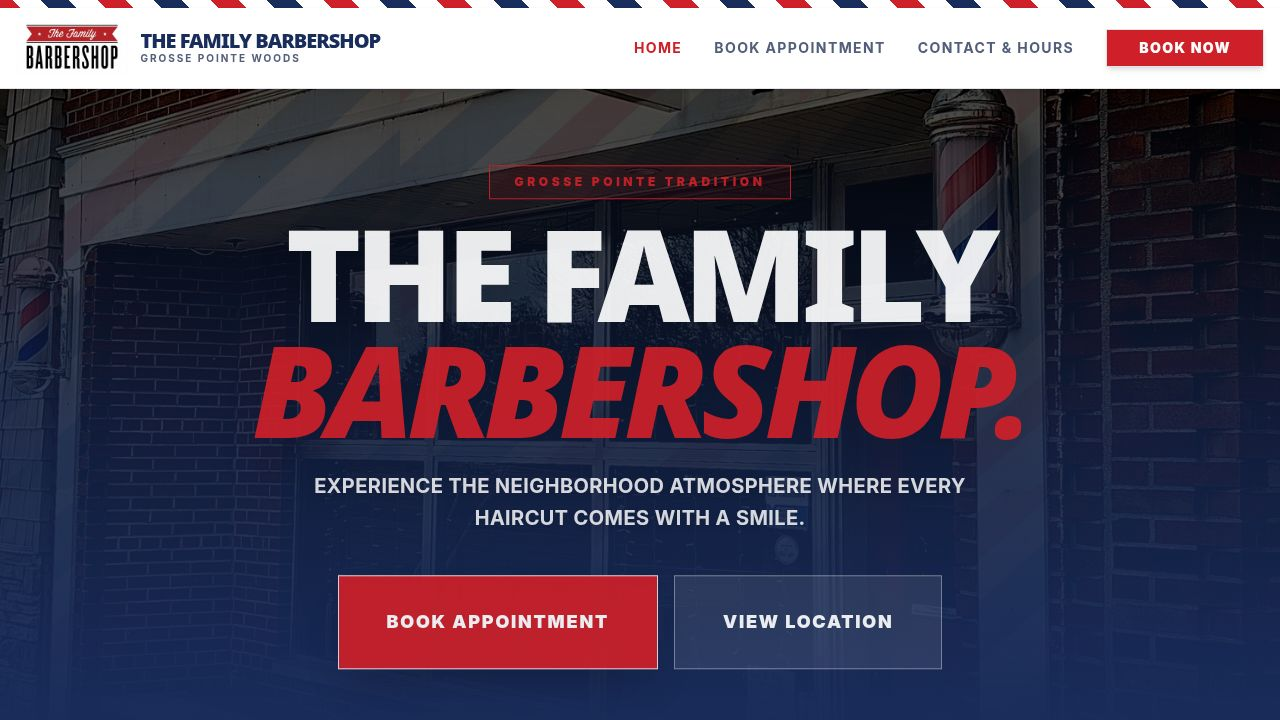
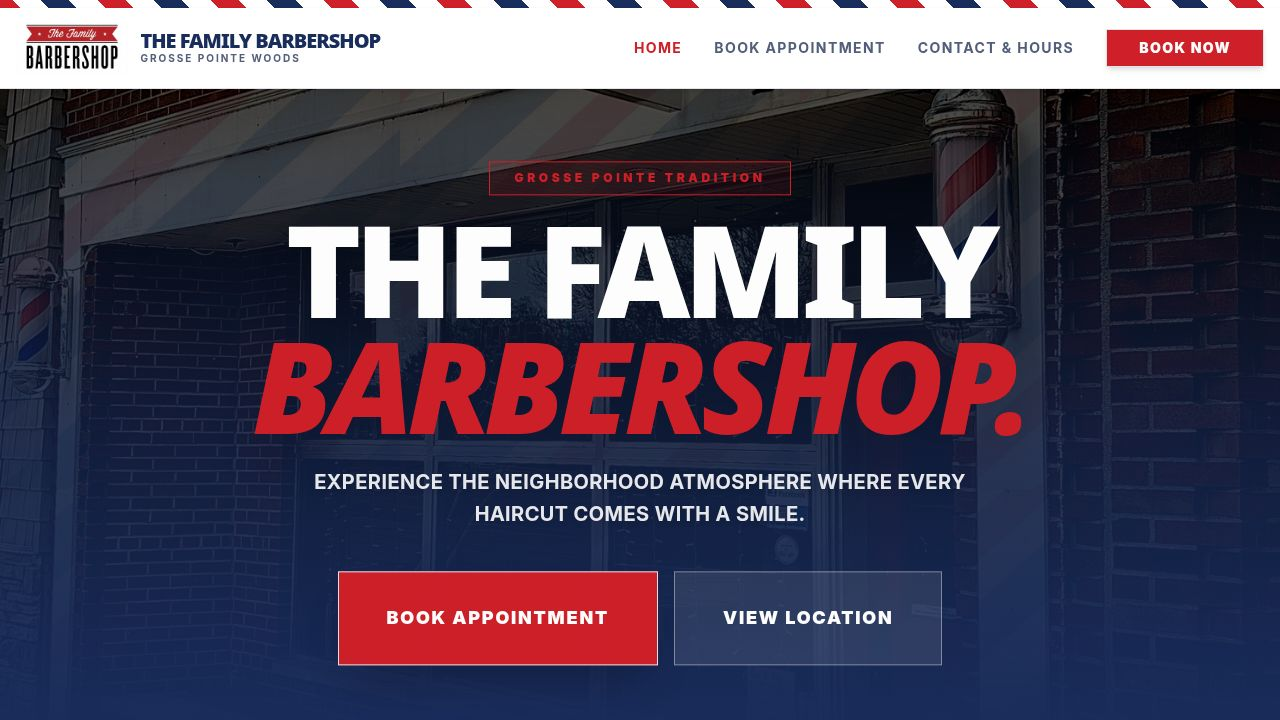
Add sections for customer reviews and testimonials to the homepage
Adds two new sections to the homepage: a Google Reviews section with a link to view reviews on Google and a placeholder for a live review widget, and a Testimonials section with sample quotes.

Replit-Commit-Author: Agent
Replit-Commit-Session-Id: 5889a5a5-295d-4200-9a05-4c6c044ff923
Replit-Commit-Checkpoint-Type: full_checkpoint
Replit-Commit-Event-Id: 4db1e73b-0845-4262-808d-7e00129c09f1
Replit-Commit-Screenshot-Url: https://storage.googleapis.com/screenshot-production-us-central1/023ea911-4c78-4d15-bad5-dc334f281290/5889a5a5-295d-4200-9a05-4c6c044ff923/uXLYHDJ
Replit-Helium-Checkpoint-Created: true

diff --git a/client/src/pages/home.tsx b/client/src/pages/home.tsx
@@ -141,6 +141,99 @@ export default function Home() {
         </div>
       </section>
 
+      {/* Google Reviews + Testimonials */}
+      <section className="py-32 bg-white relative overflow-hidden">
+        <div className="container mx-auto px-4">
+          <div className="text-center max-w-3xl mx-auto mb-20">
+            <h2 className="text-5xl md:text-7xl font-display font-black text-secondary mb-6 uppercase tracking-tighter">Reviews</h2>
+            <div className="h-2 w-32 bg-primary mx-auto mb-8" />
+            <p className="text-xs uppercase font-black tracking-[0.3em] text-muted-foreground">What customers are saying about The Family Barbershop.</p>
+          </div>
+
+          <div className="grid lg:grid-cols-2 gap-10 items-stretch max-w-6xl mx-auto">
+            <Card className="border-none shadow-2xl rounded-none overflow-hidden flex flex-col">
+              <div className="h-2 bg-barber-pole w-full" />
+              <CardContent className="p-10 flex flex-col gap-6 flex-grow">
+                <div className="flex items-start justify-between gap-6">
+                  <div>
+                    <h3 className="font-display font-black text-3xl text-secondary uppercase tracking-tighter">Google Reviews</h3>
+                    <p className="text-muted-foreground uppercase font-bold text-[10px] tracking-widest mt-2">
+                      Live reviews widget (needs your widget embed)
+                    </p>
+                  </div>
+                  <div className="text-right">
+                    <div className="text-primary font-black text-4xl leading-none">5.0</div>
+                    <div className="text-muted-foreground uppercase font-black text-[10px] tracking-widest mt-1">Rating</div>
+                  </div>
+                </div>
+
+                <div className="border border-border bg-muted/30 p-6 rounded-none">
+                  <p className="text-muted-foreground uppercase font-bold text-[10px] tracking-widest leading-relaxed">
+                    To show live Google reviews, paste your Google Reviews widget/embed code (or an Elfsight/Google widget ID) and I’ll wire it in here.
+                  </p>
+                </div>
+
+                <div className="flex items-center justify-between gap-4 mt-auto">
+                  <a
+                    data-testid="link-google-reviews"
+                    href="https://www.google.com/search?q=The+Family+Barbershop+Grosse+Pointe+Woods+MI+reviews"
+                    target="_blank"
+                    rel="noopener noreferrer"
+                    className="text-primary font-black uppercase tracking-widest text-xs underline underline-offset-4 hover:text-secondary transition-colors"
+                  >
+                    View on Google
+                  </a>
+                  <div className="text-muted-foreground uppercase font-black text-[10px] tracking-widest">Updated live</div>
+                </div>
+              </CardContent>
+            </Card>
+
+            <Card className="border-none shadow-2xl rounded-none overflow-hidden flex flex-col">
+              <div className="h-2 bg-barber-pole w-full" />
+              <CardContent className="p-10 flex flex-col gap-8 flex-grow">
+                <div className="flex items-start justify-between gap-6">
+                  <div>
+                    <h3 className="font-display font-black text-3xl text-secondary uppercase tracking-tighter">Testimonials</h3>
+                    <p className="text-muted-foreground uppercase font-bold text-[10px] tracking-widest mt-2">
+                      Neighborhood voices
+                    </p>
+                  </div>
+                </div>
+
+                <div className="grid gap-6">
+                  {[{
+                    quote: "Brenda is the best — quick, friendly, and always consistent.",
+                    name: "Local Customer",
+                  }, {
+                    quote: "Clean shop, great conversation, and a perfect cut every time.",
+                    name: "Grosse Pointe Regular",
+                  }, {
+                    quote: "Walked in and was taken care of right away. Classic barbershop feel.",
+                    name: "First-Time Visitor",
+                  }].map((t, idx) => (
+                    <div key={idx} className="border border-border bg-white p-6 shadow-sm">
+                      <p className="text-secondary font-black uppercase tracking-widest text-[10px] leading-relaxed" data-testid={`text-testimonial-${idx}`}>
+                        “{t.quote}”
+                      </p>
+                      <div className="mt-4 flex items-center justify-between">
+                        <span className="text-muted-foreground uppercase font-black text-[10px] tracking-[0.2em]" data-testid={`text-testimonial-author-${idx}`}>
+                          — {t.name}
+                        </span>
+                        <div className="flex items-center gap-1" aria-hidden="true">
+                          {[0, 1, 2, 3, 4].map((s) => (
+                            <Star key={s} className="h-4 w-4 text-primary" />
+                          ))}
+                        </div>
+                      </div>
+                    </div>
+                  ))}
+                </div>
+              </CardContent>
+            </Card>
+          </div>
+        </div>
+      </section>
+
       {/* Meet Brenda Section */}
       <section className="py-32 bg-white relative overflow-hidden">
         <div className="container mx-auto px-4 relative z-10">